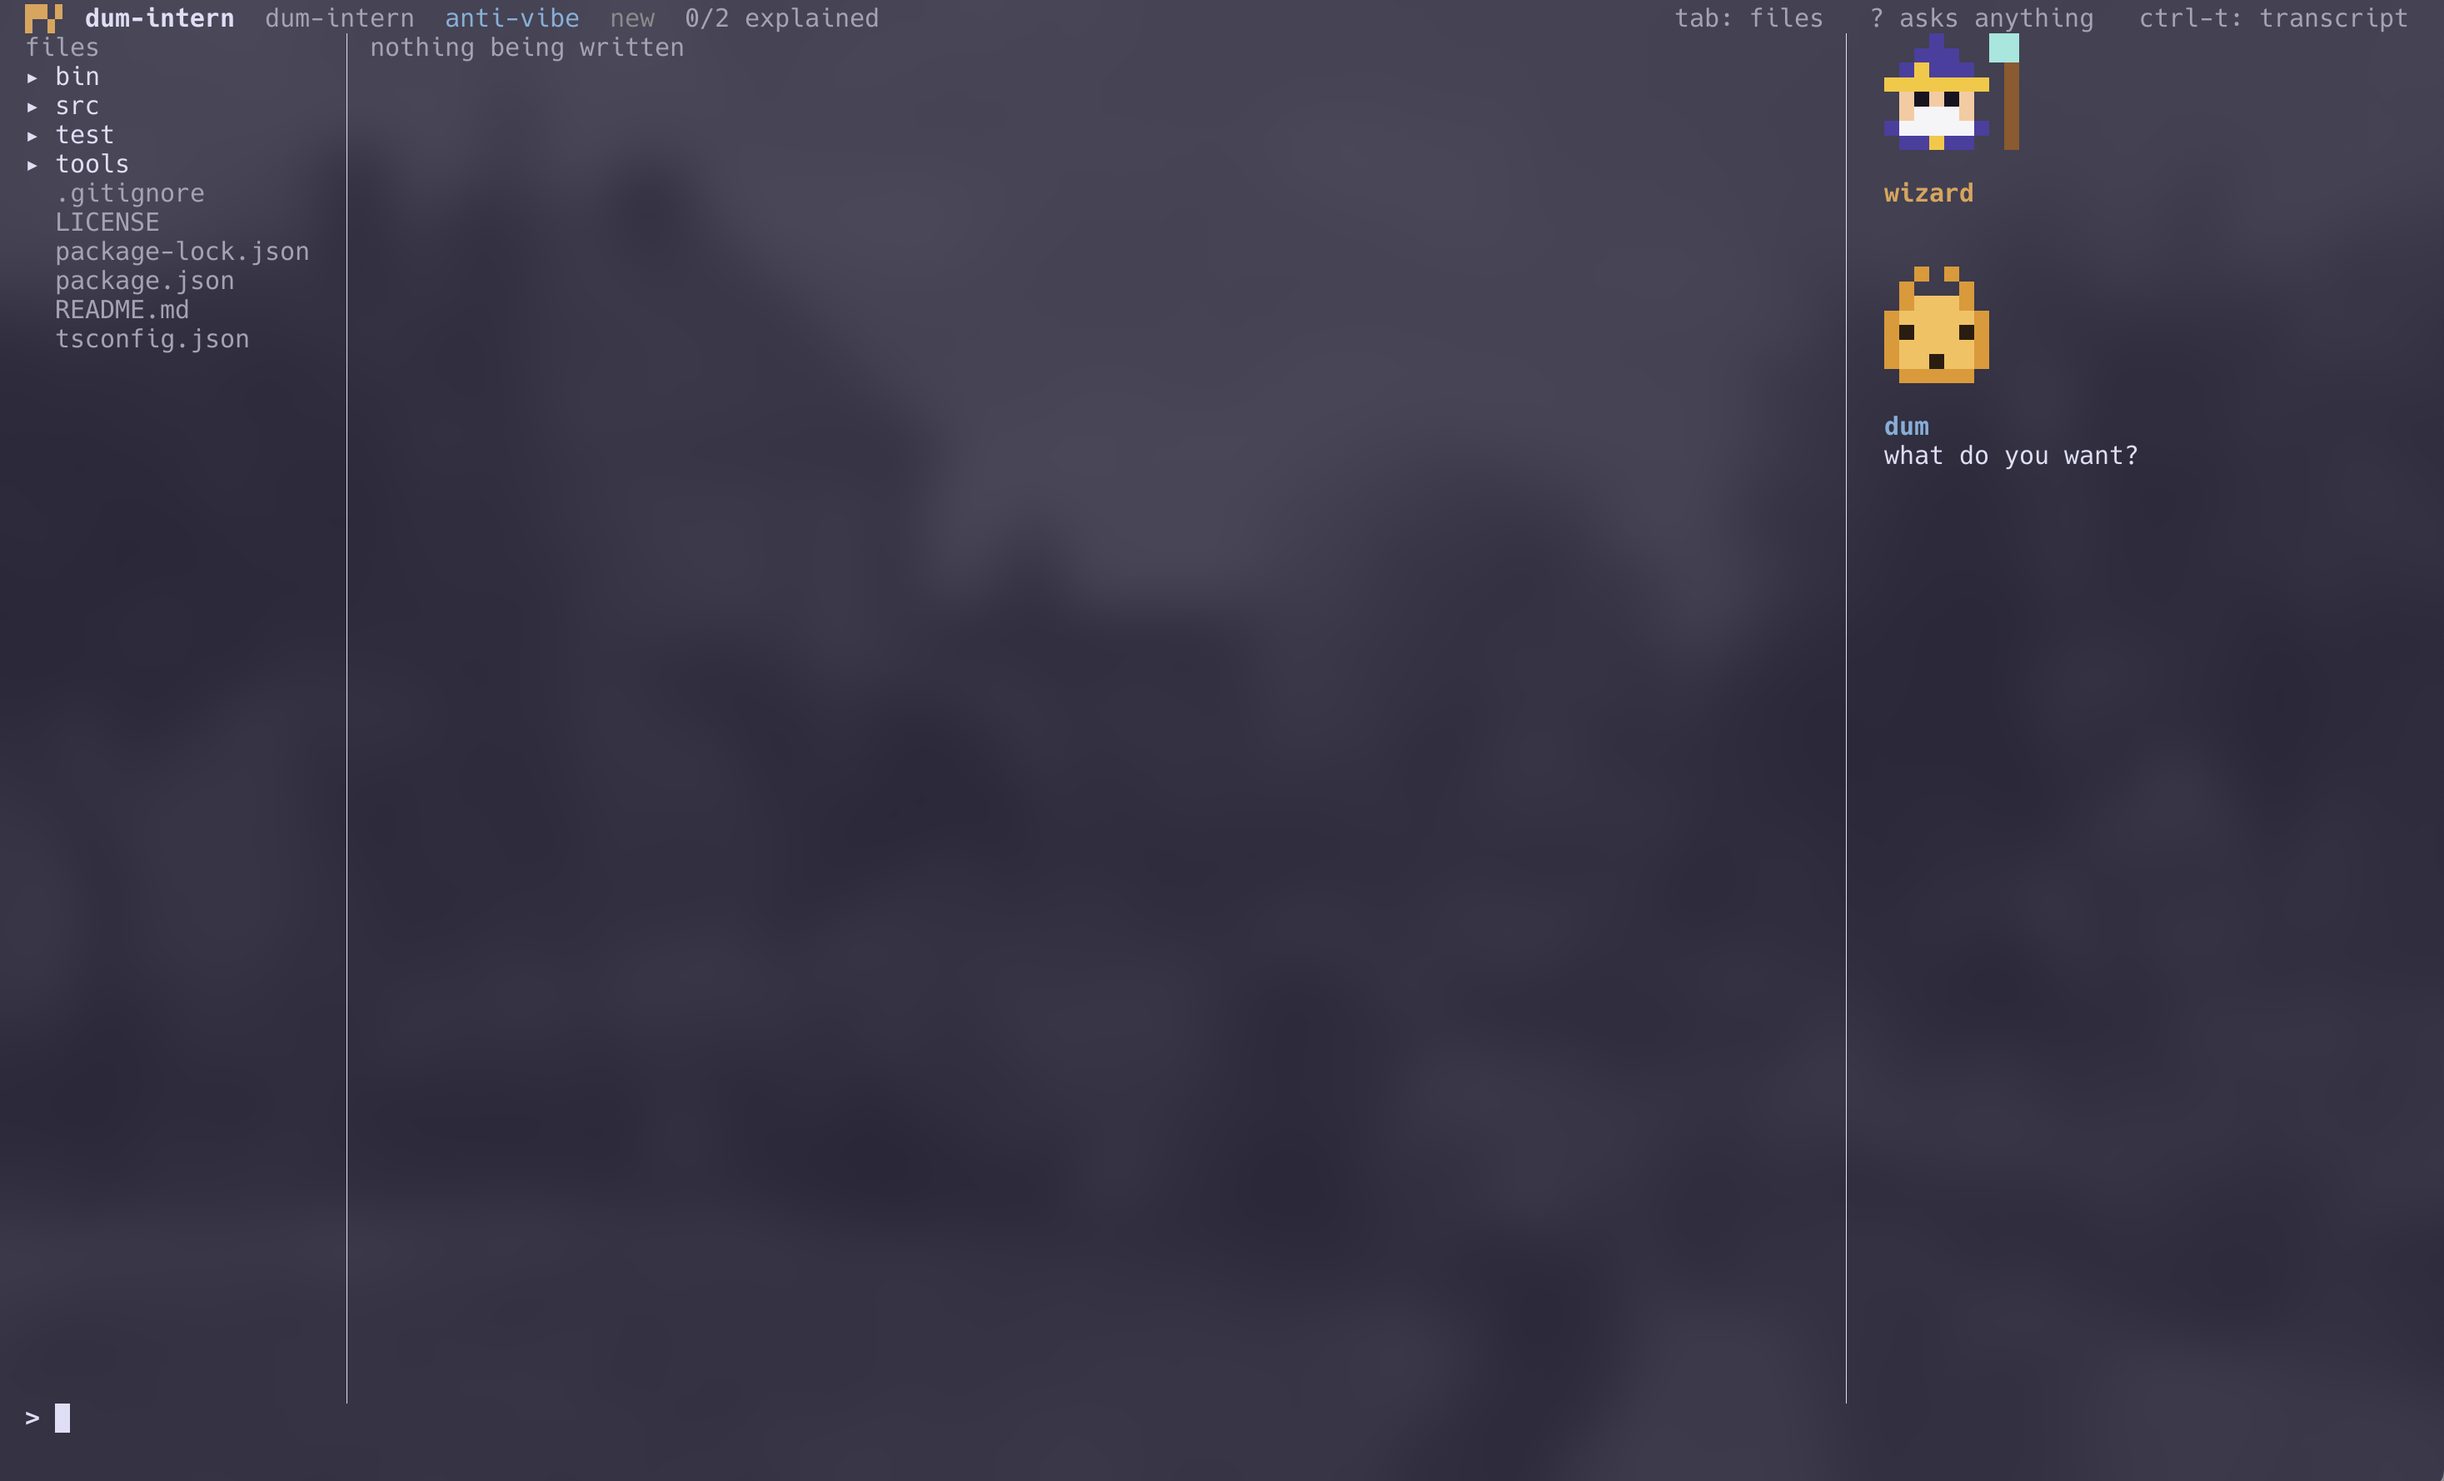
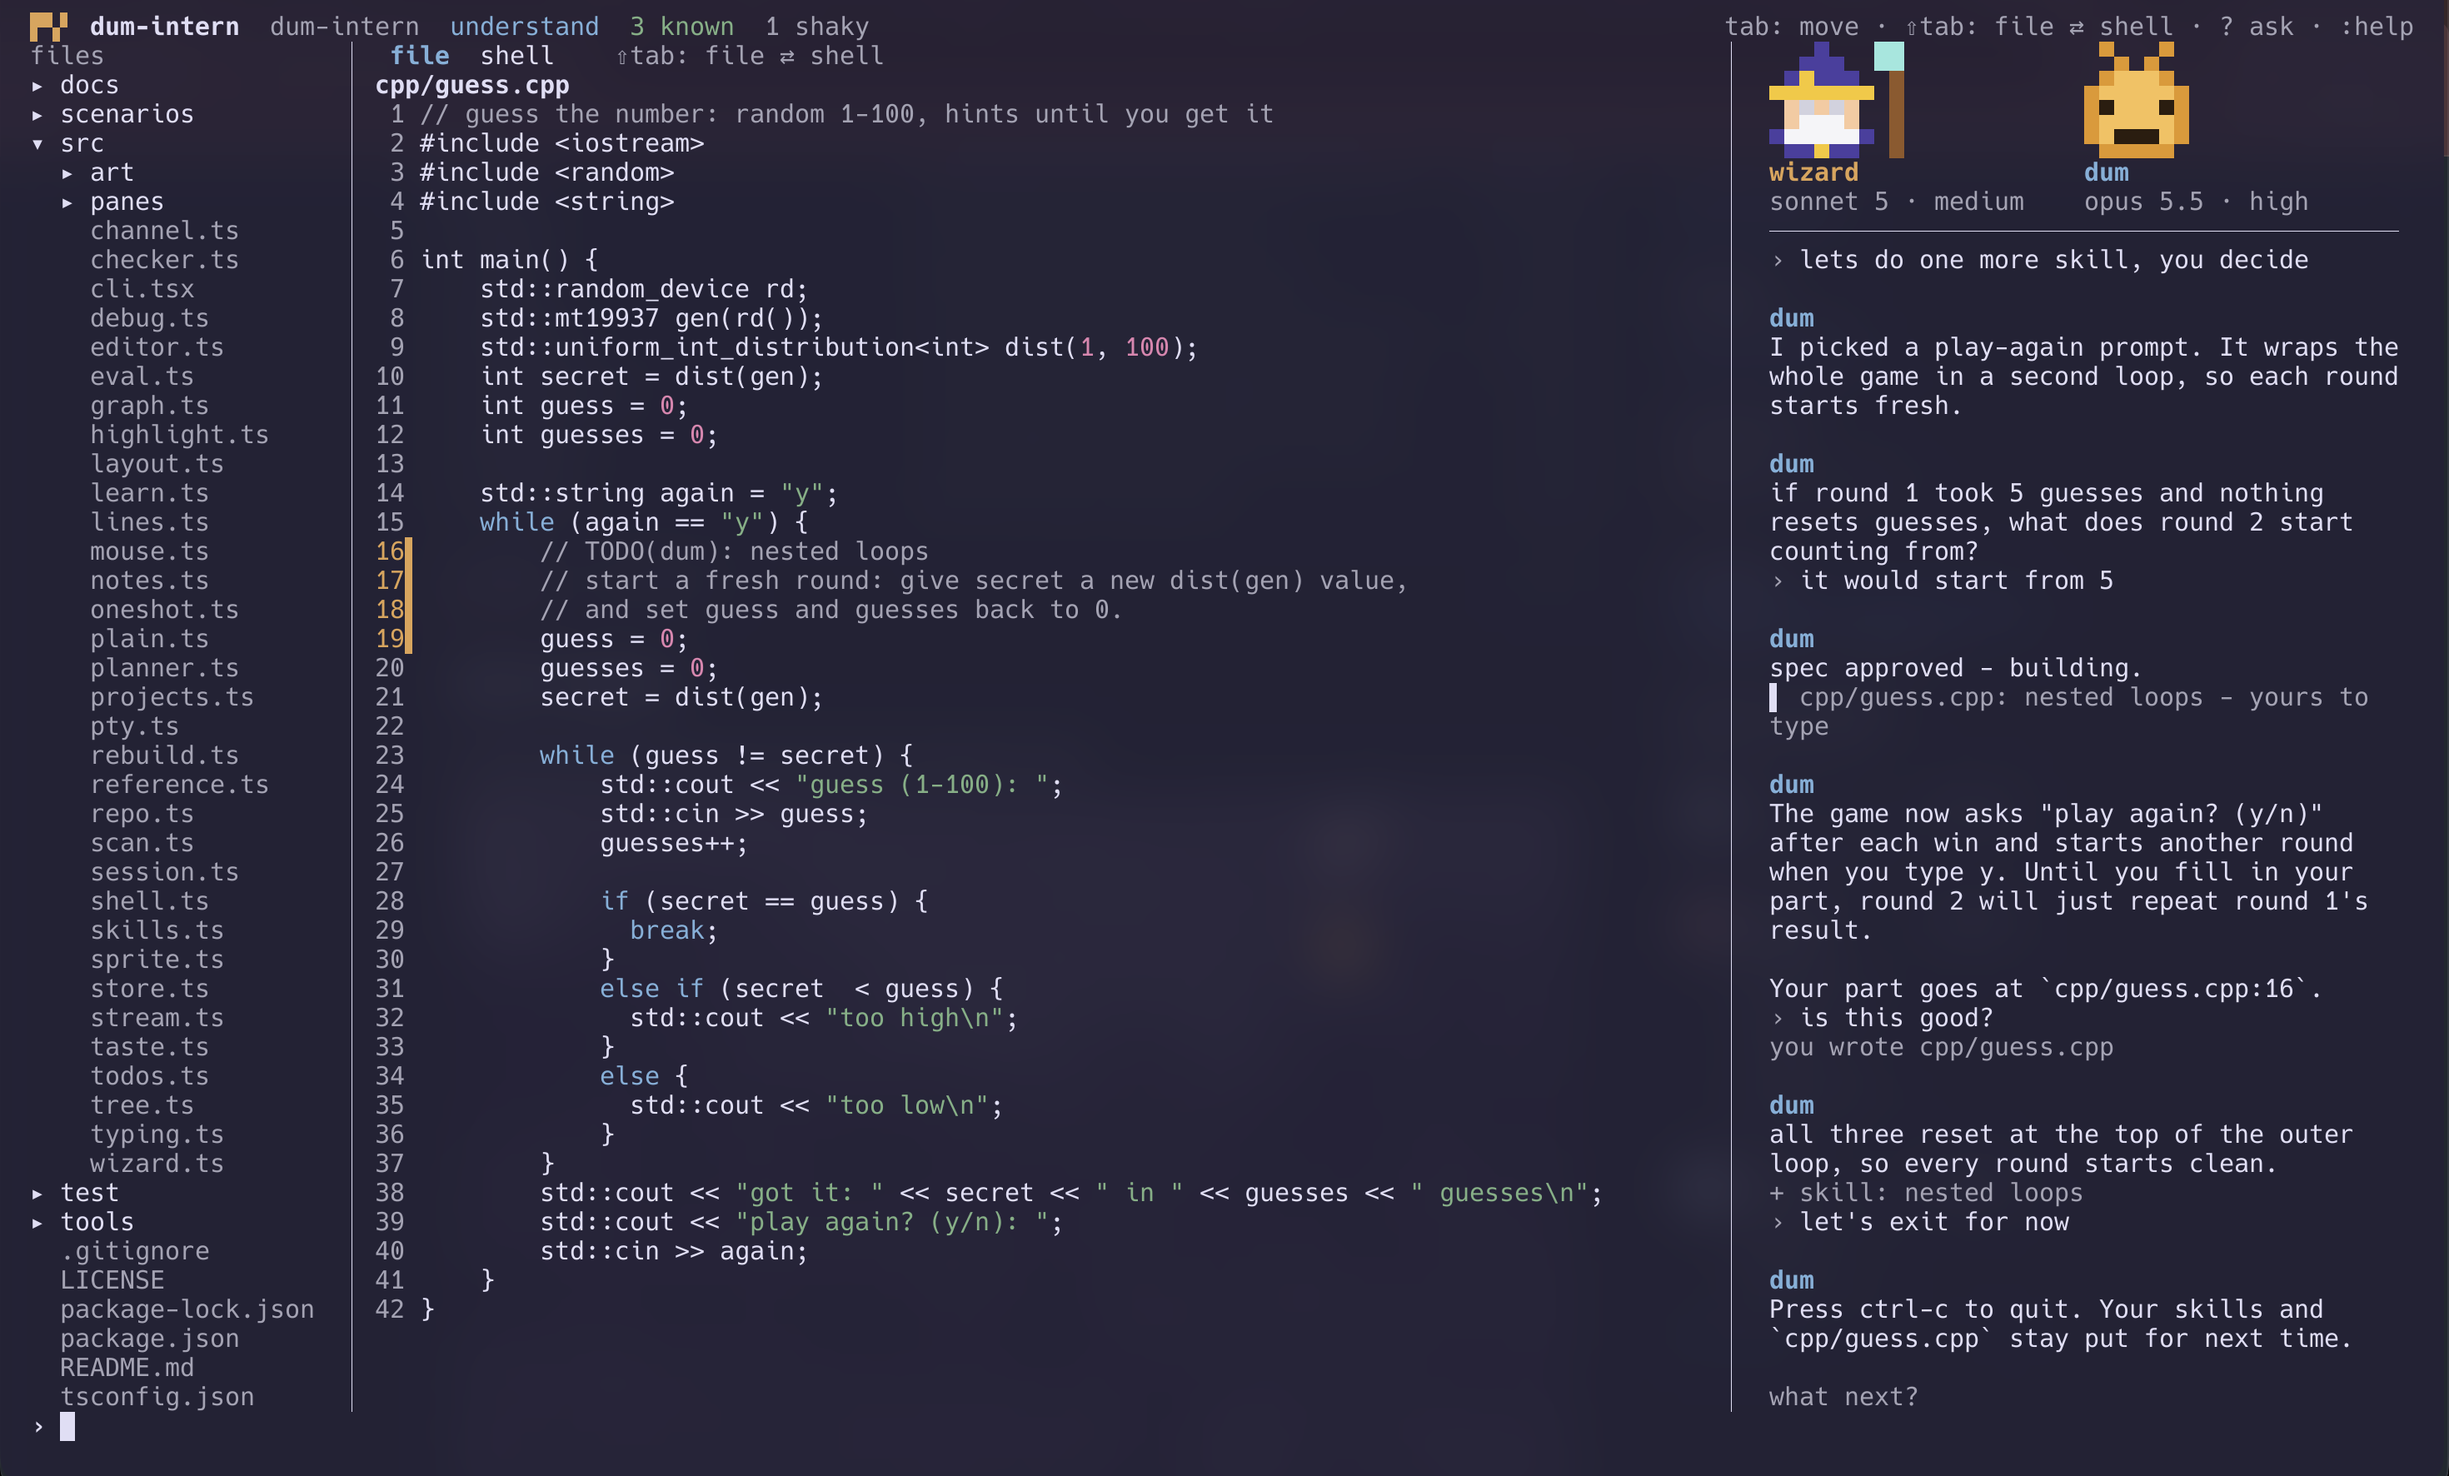
readme: a current screenshot - the guessing game, one gap, the conversation on the right

diff --git a/README.md b/README.md
@@ -2,7 +2,7 @@
 
 My custom agentic environment with a tighter development leash.
 
-![dum-intern: file tree on the left, what's being written in the middle, the wizard and dum on the right](docs/screenshot.png)
+![dum-intern: the file tree on the left, a C++ guessing game with one TODO(dum) gap in the middle, and the wizard and dum on the right above the conversation](docs/screenshot.png)
 
 It interrogates me before it builds anything. Nothing gets written until I approve a spec made out of my own answers.
 
